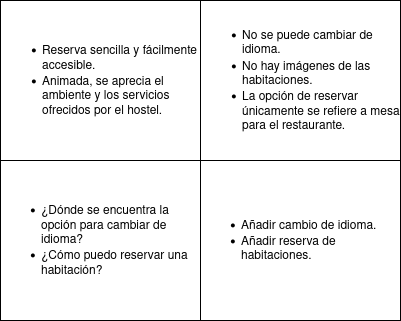
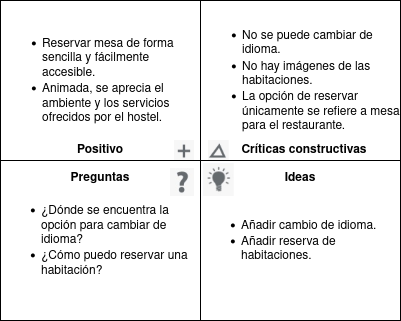
modifico la malla receptora

diff --git a/README.md b/README.md
@@ -68,20 +68,7 @@ La valoración numérica obtenida a partir de la revisión de usabilidad es de 7
 ![Método UX](img/feedback-capture-grid.png) 2.a Feedback Capture Grid / EMpathy map / POV
 ----
 
-
->>> Comenta con un diagrama los aspectos más destacados a modo de conclusion de la práctica anterior,
-
-
- Interesante | Críticas     
-| ------------- | -------
-  Preguntas | Nuevas ideas
-  
-    
->>> ¿Que planteas como "propuesta de valor" para un nuevo diseño de aplicación para economia colaborativa ?
->>> Problema e hipótesis
->>>  Que planteas como "propuesta de valor" para un nuevo diseño de aplicación para economia colaborativa te
->>> (150-200 caracteres)
-
+Hemos decidido utilizar la malla receptora ya que nos parece la más sencilla y directa de implementar, y además, a partir de la cual podemos sacar más conclusiones.
 
 ![Método UX](P2/malla_receptora.png)
 
@@ -90,6 +77,9 @@ La valoración numérica obtenida a partir de la revisión de usabilidad es de 7
 ![Método UX](img/ScopeCanvas.png) 2.b ScopeCanvas
 ----
 >>> Propuesta de valor 
+
+
+
 
 ![Método UX](img/Sitemap.png) 2.b Tasks analysis 
 -----
